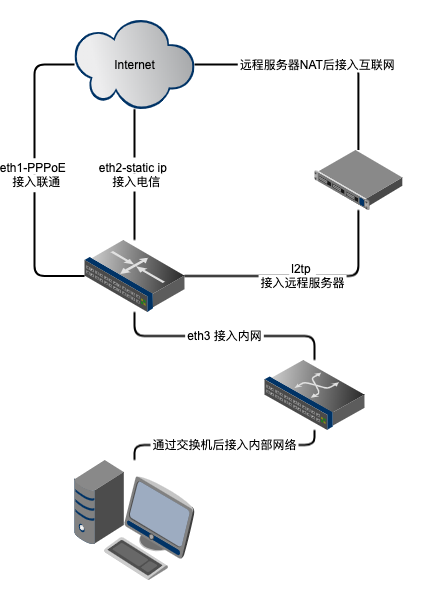
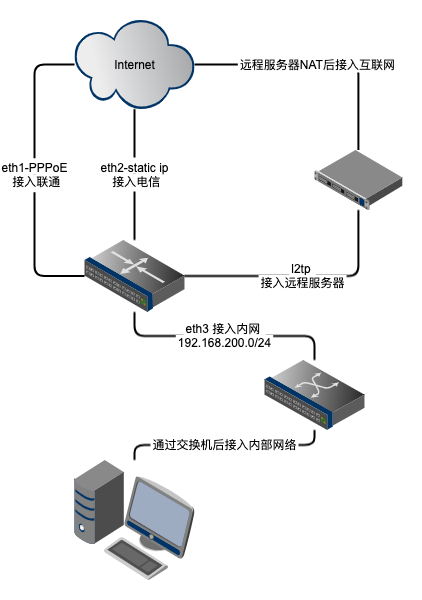
看下效果

diff --git a/_posts/2019-05-17-routeros-2.md b/_posts/2019-05-17-routeros-2.md
@@ -1,0 +1,46 @@
+---
+layout: post
+title:  "使用MikroTik产品配置我们的上网环境"
+date:   2019-05-08 12:59:06
+categories: MikroTik RouterOS
+---
+## 目标
+![architecture](http://blog.guohai.org/doc-pic/2019-05/routeros-01.png)
+
+按图所示，我们的router设备上有三块物理接口，其中
+1. ehter1我们计划使用PPPoE协议连接我们的联通宽带 带宽500Mbps。做为我们的主要线路，当所有规则没规则没有命中时走此线路。
+2. ether2接口使用DHCP连接我们的电信线路,带宽100Mbps。备份线路，当线路正常时所有电信段IP走此线路。当主线路挂掉时让所有连接从此线路进出
+3. ether3接口，做我们的内网接入，所有的内网设备通过此接口连接外部。
+4. 从图片可以看到我们还设计了一个l2tp线路，此线路最小化走那些会报404的网站。
+
+## 开始工作
+
+首先我们下载routeros的图形化配置工具winbox [https://mikrotik.com/download](https://mikrotik.com/download) 目前最新版本为3.18 并且只有exe版本，如果没有windows的同学请先安装wine来启动此程序。
+
+![loading](http://guohai163.github.io/doc-pic/2019-05/routeros-02.png)
+
+默认状态下我们的新设备都是没有IP地址的，全部为0.0.0.0首次连接我们需要通过MAC地址来进行连接。用户名admin密码为空即可
+
+![main](http://guohai163.github.io/doc-pic/2019-05/routeros-02.png)
+
+这就是我们的主界面，针对MikroTik设备的所有操作都可以在这里便捷的进行操作。首先给我们的所有网络接口进行重命名，方便后续的识别。打开Interfaces主界面将我们的三个接口分别重命名为eth1-unicom\eth2-telecom\eth3-lan
+
+## 配置内网
+
+下一步为我们的内网设置IP并开启内网的DHCP服务。选择IP->Addresses点击添加设置我们的内网网卡IP地址为 192.168.200.1/24接口选择eth3-lan
+![address](http://guohai163.github.io/doc-pic/2019-05/routeros-04.png)
+
+下一步为我们的内网机器分配一个IP池子，打开IP->Pool点击添加，首先为我们的池子起个名字，然后设置我们池子内的IP范围。这次我们设置的是从192.168.200.100-192.168.200.200
+![pool](http://guohai163.github.io/doc-pic/2019-05/routeros-05.png)
+
+最后一步设置DHCP，打开IP->DHCP Server.为我们的DHCP起个名字，然后设置使用DHCP的接口、以及我们要用的地址池子。接下来我们还要进入Networks设置一下分配到机器的默认网关。
+
+当我们都设置好后，打开Leases界面已经可以看到有机器分配到IP地址了。
+
+![dhcp](http://guohai163.github.io/doc-pic/2019-05/routeros-06.png)
+
+## 配置线路1
+
+打开PPP在Interface下点击添加，给新连接起一个名字 pppoe-out-unicom,选择接口为eth1-unicom.切换到DialOut标签下设置拨号的用户名和密码，点OK即可以开始进行连接，并会获得一个IP地址。
+
+接下来让我们LAN内的机器可以正常上网我们还要做一步NAT。打开IP->Firewall->NAT，点击添加Chain=srcnat,out-interface=eth1-unicom,action=masquerade保存即可
